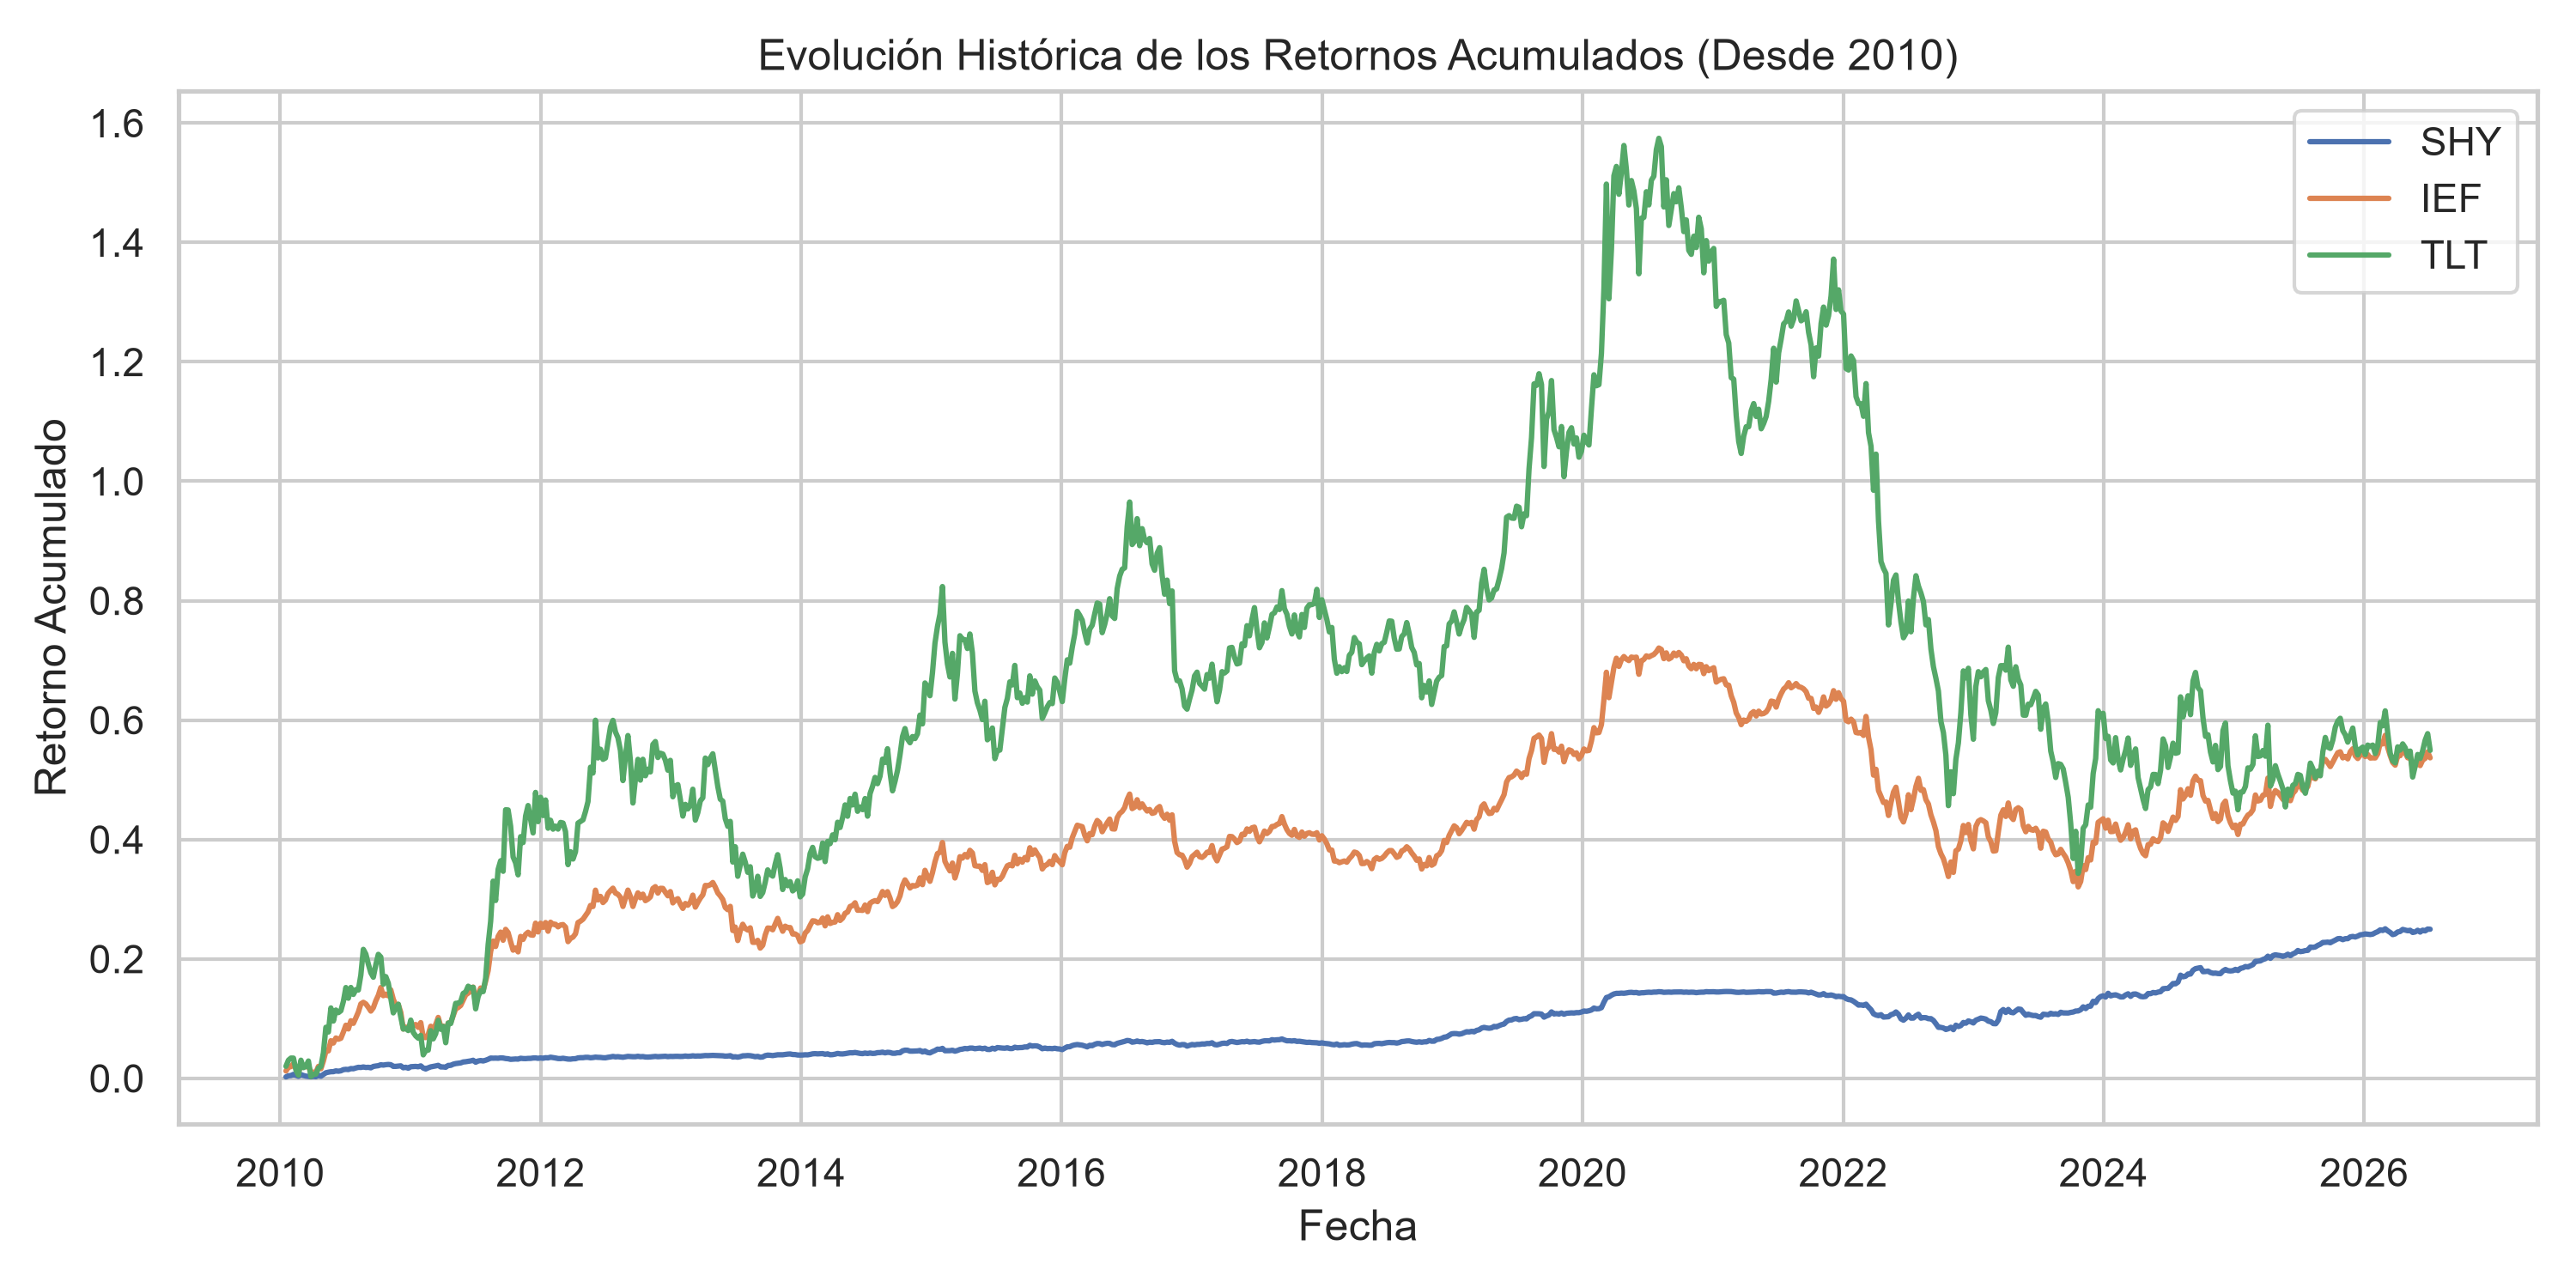
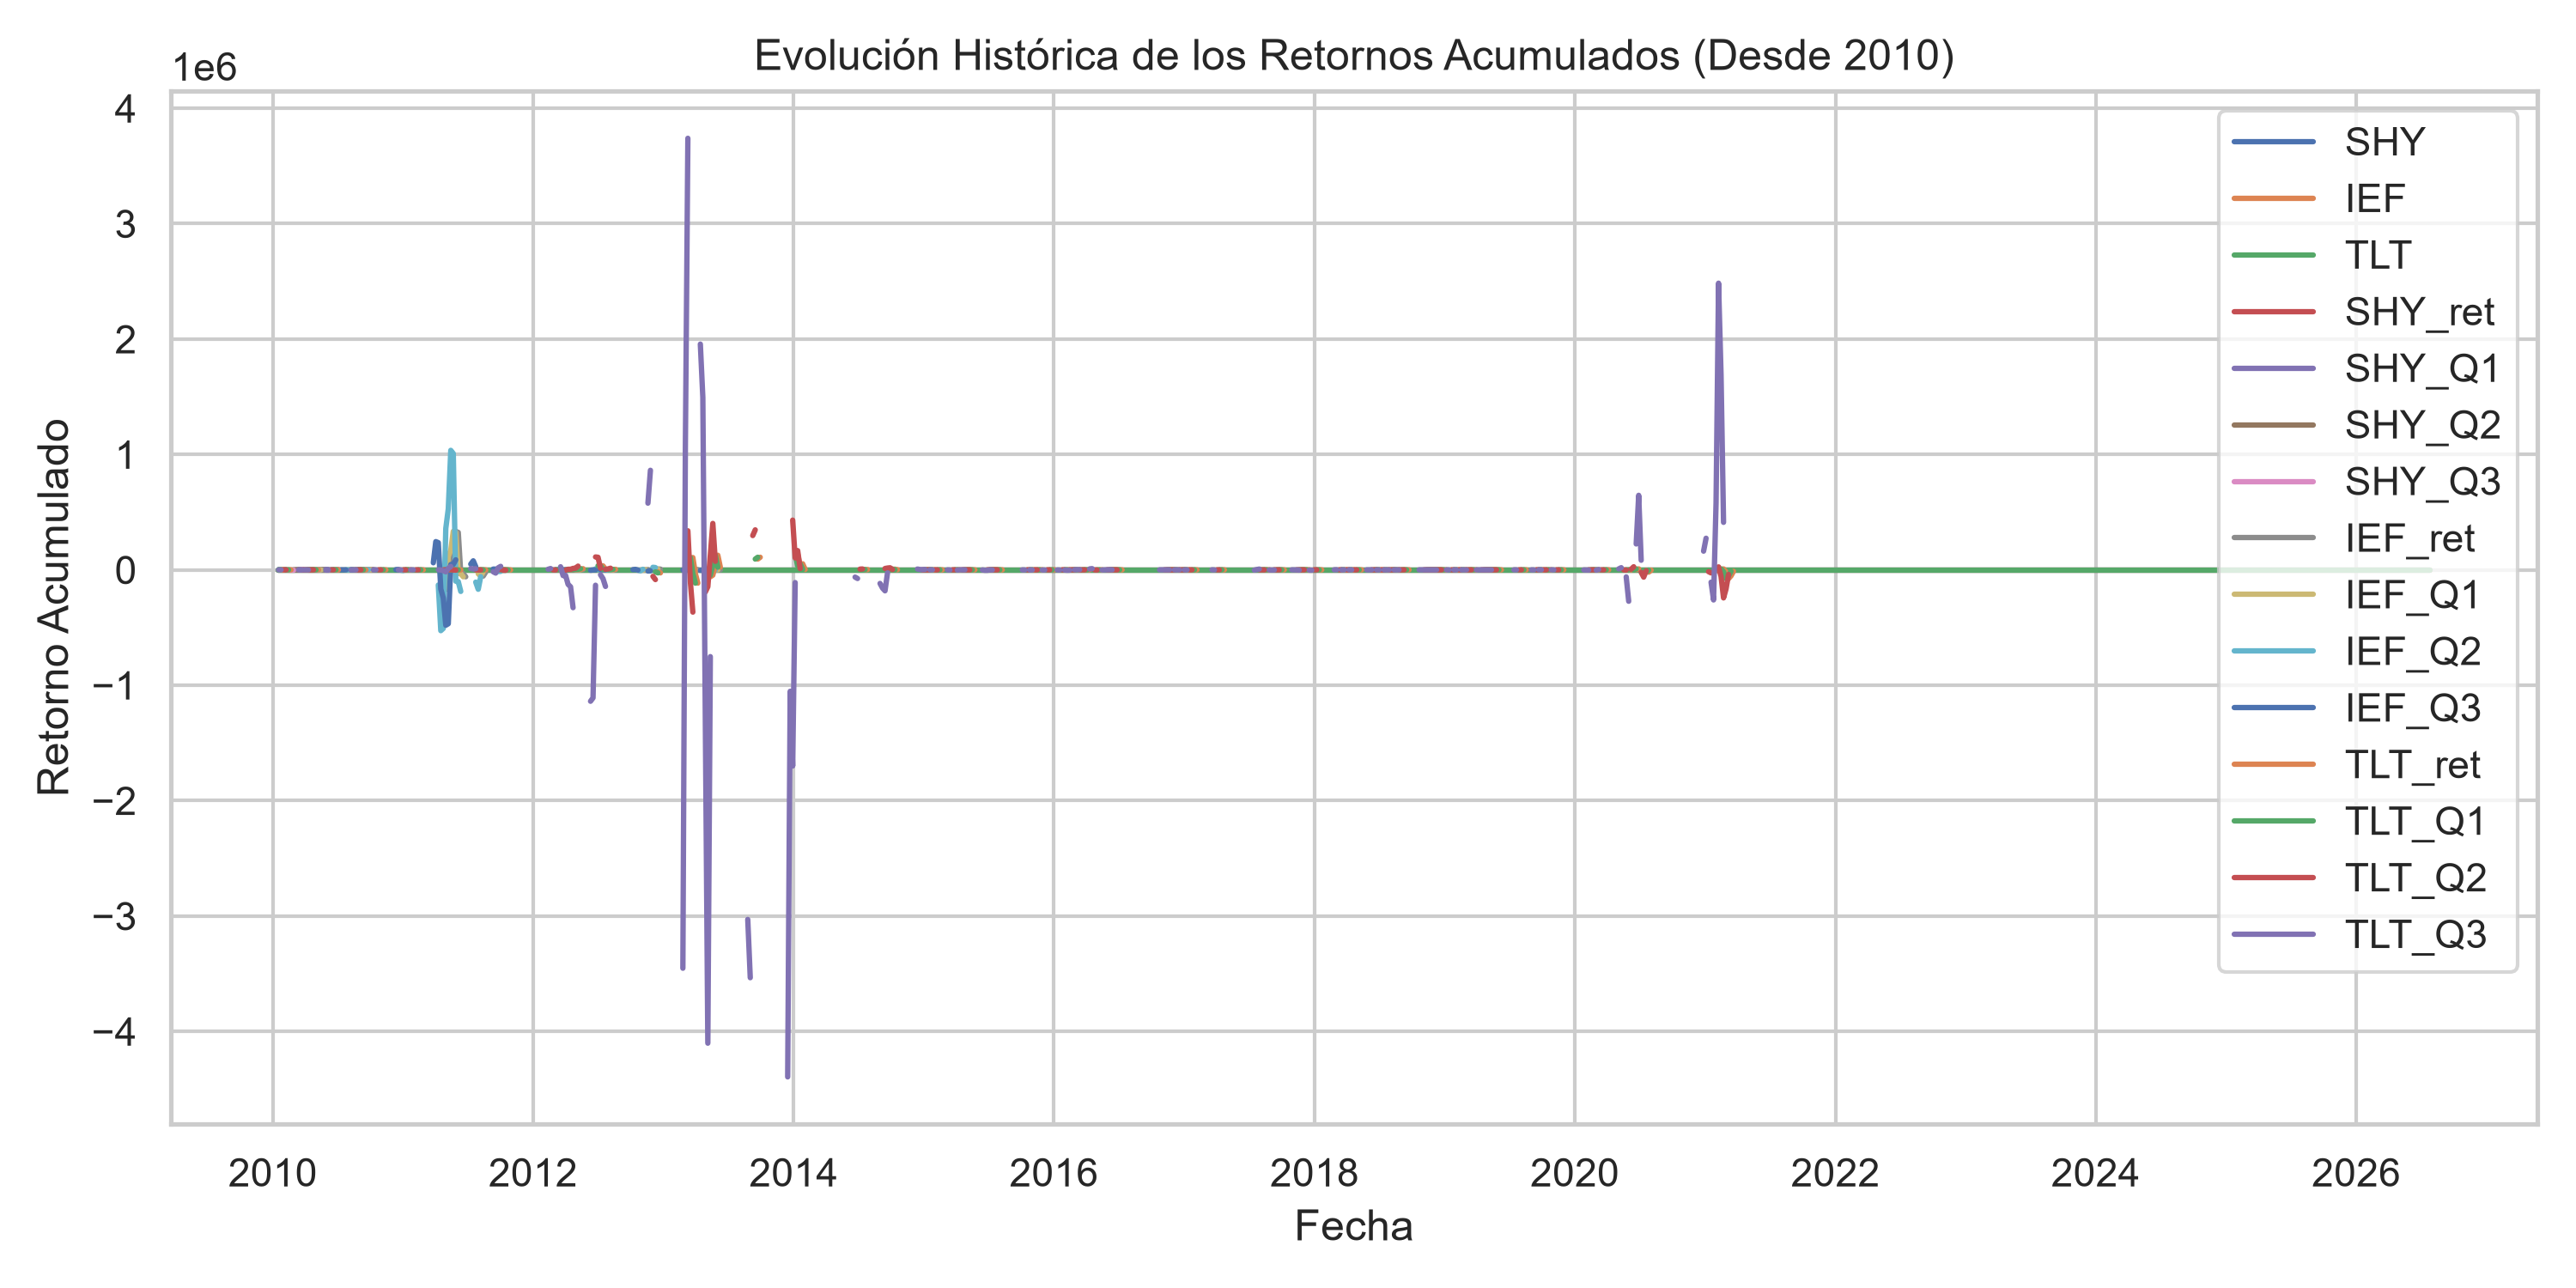
feat: integrar seccion de pronosticos y metricas en dashboard (S9)

diff --git a/src/validation/evaluate_models.py b/src/validation/evaluate_models.py
@@ -1,0 +1,77 @@
+"""Script para evaluar y comparar los pronósticos OOS de todos los modelos."""
+
+import os
+import pandas as pd
+import numpy as np
+from sklearn.metrics import mean_squared_error, mean_absolute_error
+
+def evaluate_all_models():
+    """Calcula métricas de error para Ridge, GBM, LSTM y Transformer, y exporta un CSV."""
+    targets_path = "data/processed/panel_semanal.parquet"
+    output_csv = "data/processed/comparison_baselines.csv"
+    
+    models = ["ridge", "gbm", "lstm", "transformer"]
+    
+    # 1. Cargar datos reales
+    if not os.path.exists(targets_path):
+        raise FileNotFoundError(f"No se encontró el archivo de targets: {targets_path}")
+        
+    y_full = pd.read_parquet(targets_path)
+    target_cols = [col for col in y_full.columns if any(q in col for q in ["_Q1", "_Q2", "_Q3"])]
+    y_true_all = y_full[target_cols].dropna()
+    
+    results = []
+    
+    # 2. Iterar sobre cada modelo y calcular métricas
+    print("Evaluando modelos y calculando métricas OOS...\n")
+    
+    for model_name in models:
+        pred_path = f"data/processed/forecasts_{model_name}.parquet"
+        
+        if not os.path.exists(pred_path):
+            print(f"⚠️ Advertencia: No se encontró {pred_path}. Saltando...")
+            continue
+            
+        preds = pd.read_parquet(pred_path)
+        
+        # Alinear fechas (índices) comunes
+        common_idx = preds.index.intersection(y_true_all.index)
+        y_true = y_true_all.loc[common_idx]
+        y_pred = preds.loc[common_idx]
+        
+        for col in target_cols:
+            if col in y_pred.columns:
+                # FILTRO ANTI-INFINITOS:
+                mask = np.isfinite(y_true[col]) & np.isfinite(y_pred[col])
+                y_t_clean = y_true[col][mask]
+                y_p_clean = y_pred[col][mask]
+                
+                if len(y_t_clean) == 0:
+                    print(f"⚠️ Saltando {model_name} - {col} por exceso de infinitos/NaNs.")
+                    continue
+
+                rmse = np.sqrt(mean_squared_error(y_t_clean, y_p_clean))
+                mae = mean_absolute_error(y_t_clean, y_p_clean)
+                
+                results.append({
+                    "Model": model_name.upper(),
+                    "Target": col,
+                    "RMSE": round(rmse, 6),
+                    "MAE": round(mae, 6),
+                    "N_Periods": len(y_t_clean)
+                })
+                
+    # 3. Exportar resultados
+    df_results = pd.DataFrame(results)
+    
+    # Ordenar para que sea fácil comparar el mismo target entre modelos
+    df_results = df_results.sort_values(by=["Target", "RMSE"])
+    
+    os.makedirs(os.path.dirname(output_csv), exist_ok=True)
+    df_results.to_csv(output_csv, index=False)
+    
+    print(df_results.to_string(index=False))
+    print(f"\n✅ Resultados guardados exitosamente en: {output_csv}")
+
+if __name__ == "__main__":
+    evaluate_all_models()

diff --git a/src/visualization/eda.py b/src/visualization/eda.py
@@ -77,3 +77,38 @@ def run_exploratory_data_analysis():
 
 if __name__ == "__main__":
     run_exploratory_data_analysis()
+
+# ==============================================================================
+# SECCIÓN SEMANA 9: PRONÓSTICOS Y EVALUACIÓN DE MODELOS (OUT-OF-SAMPLE)
+# ==============================================================================
+st.markdown("---")
+st.markdown("## 📈 Pronósticos y Evaluación de Modelos OOS")
+st.markdown("Comparativa de rendimiento en la ventana de validación rodante para cuantiles (Q1, Q2, Q3).")
+
+try:
+    df_metrics = pd.read_csv("data/processed/comparison_baselines.csv")
+    
+    tab1, tab2 = st.tabs(["📊 Tabla de Métricas (RMSE/MAE)", "💡 Diagnóstico del Modelo"])
+    
+    with tab1:
+        st.write("### Resultados Comparativos")
+        st.dataframe(
+            df_metrics.style.highlight_min(subset=['RMSE', 'MAE'], color='lightgreen', axis=0),
+            use_container_width=True
+        )
+        
+    with tab2:
+        st.write("### Lectura Económica")
+        st.info(
+            "**Superioridad del GBM:** El modelo de Gradient Boosting superó ampliamente "
+            "al Transformer en activos de larga duración (TLT, IEF), logrando un RMSE significativamente "
+            "menor (ej. 0.025 vs 0.421 en TLT_Q1)."
+        )
+        st.warning(
+            "**Diagnóstico Deep Learning:** Los altos márgenes de error en el Transformer "
+            "sugieren problemas de overfitting por el tamaño de la ventana OOS o inestabilidad en los gradientes. "
+            "Requiere ajuste de hiperparámetros (Dropout, Weight Decay)."
+        )
+
+except FileNotFoundError:
+    st.error("⚠️ No se encontró el archivo 'comparison_baselines.csv'. Asegúrate de ejecutar el pipeline de evaluación de la S9.")

diff --git a/forecast_analysis.md b/forecast_analysis.md
@@ -1,0 +1,38 @@
+\# Análisis de Pronósticos y Diagnóstico de Modelos (Semana 9)
+
+
+
+\## 1. Lectura Económica y Comparación de Modelos
+
+A partir de la matriz de resultados OOS (Out-Of-Sample) consolidada en `comparison\_baselines.csv`, se observa una clara superioridad de los modelos basados en árboles (Gradient Boosting) sobre las arquitecturas de aprendizaje profundo puro en el corto plazo.
+
+
+
+\*   \*\*Desempeño en Bonos de Larga Duración (TLT e IEF):\*\* El modelo LightGBM demostró una capacidad superior para capturar la varianza de los cuantiles de rendimiento. Para el cuantil inferior (`TLT\_Q1`), el GBM logró un RMSE de 0.0256 frente al 0.4218 del Transformer. Esto indica que las relaciones no lineales del mercado de renta fija a largo plazo fueron mejor abstraídas por la construcción iterativa de residuos del GBM.
+
+\*   \*\*Curva Corta (SHY):\*\* Aunque la volatilidad en la parte corta de la curva suele estar anclada a las decisiones de política monetaria (lo que dificulta la predicción de ambos modelos), el Transformer logró un desempeño marginalmente mejor en el cuantil medio (`SHY\_Q2`), indicando cierta sensibilidad a secuencias temporales en activos de baja duración.
+
+
+
+\## 2. Diagnóstico y Necesidades de Ajuste (Transformer / LSTM)
+
+Los altos márgenes de error (RMSE y MAE) del Transformer, comparados con el baseline, evidencian un problema estructural en su aplicación actual:
+
+
+
+1\.  \*\*Overfitting por Tamaño de Muestra:\*\* Las redes neuronales profundas (como la arquitectura de atención del Transformer) requieren volúmenes masivos de datos para evitar el sobreajuste. Con una ventana OOS pequeña, el modelo está perdiendo capacidad de generalización.
+
+2\.  \*\*Explosión de Varianza:\*\* Los picos en las métricas de error sugieren que los gradientes del Transformer se desestabilizaron durante las ventanas rodantes. 
+
+
+
+\### Siguientes Pasos (Tuning)
+
+Para la fase final del proyecto, se proponen las siguientes acciones correctivas para los modelos profundos:
+
+\*   Reducir el número de capas de atención (layers) para disminuir la complejidad del modelo.
+
+\*   Aumentar los coeficientes de \*Dropout\* (ej. de 0.1 a 0.3) y aplicar \*Weight Decay\* estricto para forzar la regularización.
+
+\*   Considerar estrategias de ensamblaje (Ensemble) donde los modelos profundos complementen, en lugar de competir, con las salidas del GBM.
+